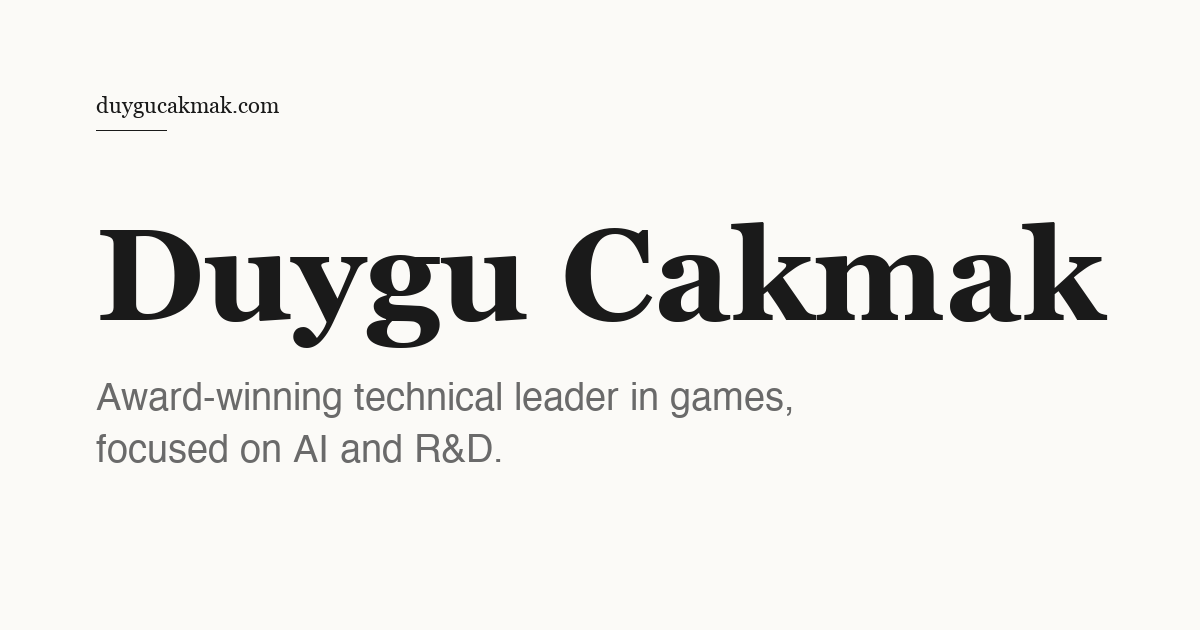
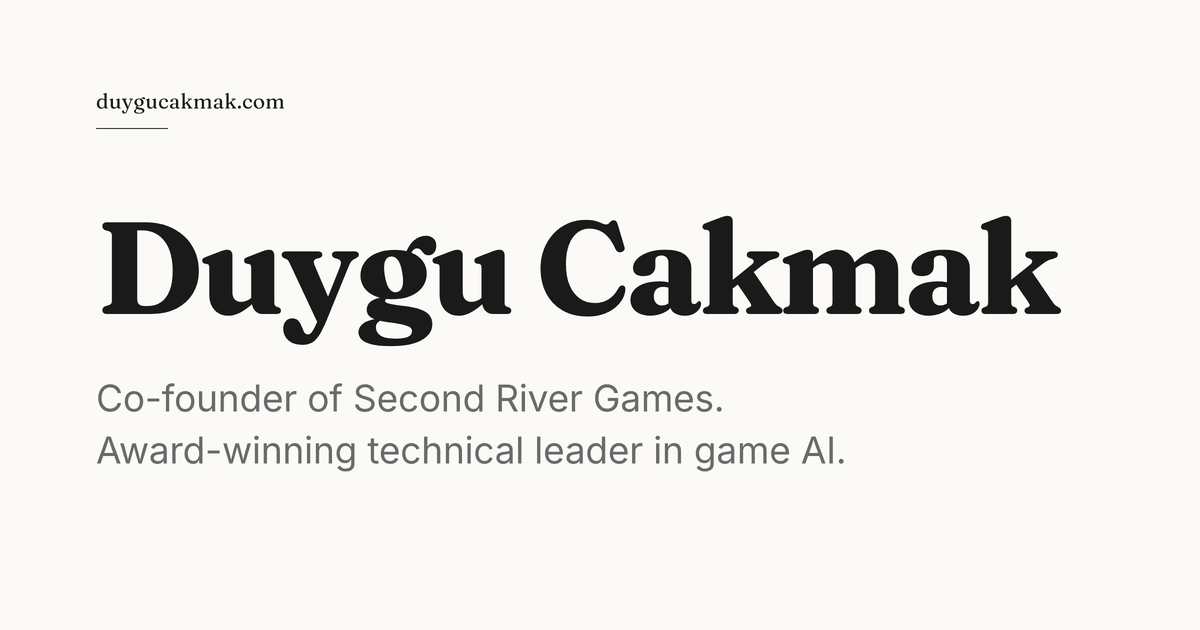
Lead with Second River Games in tagline and meta
Replace the tagline across the hero and the description, og and
twitter meta tags; "R&D" described the Creative Assembly role rather
than current work. Regenerate og-image.png, which had the old
tagline baked in and would otherwise have shown stale text in link
previews. Link Second River Games on its first mention and update
the LinkedIn URL to its new vanity slug.

diff --git a/index.html b/index.html
@@ -4,13 +4,13 @@
   <meta charset="utf-8">
   <meta name="viewport" content="width=device-width, initial-scale=1">
   <title>Duygu Cakmak</title>
-  <meta name="description" content="Duygu Cakmak — Award-winning technical leader in games, focused on AI and R&D.">
+  <meta name="description" content="Duygu Cakmak — Co-founder of Second River Games. Award-winning technical leader in game AI.">
 
   <link rel="icon" type="image/svg+xml" href="favicon.svg">
 
   <meta property="og:type" content="website">
   <meta property="og:title" content="Duygu Cakmak">
-  <meta property="og:description" content="Award-winning technical leader in games, focused on AI and R&D.">
+  <meta property="og:description" content="Co-founder of Second River Games. Award-winning technical leader in game AI.">
   <meta property="og:url" content="https://duygucakmak.com/">
   <meta property="og:image" content="https://duygucakmak.com/og-image.png">
   <meta property="og:image:width" content="1200">
@@ -18,7 +18,7 @@
 
   <meta name="twitter:card" content="summary_large_image">
   <meta name="twitter:title" content="Duygu Cakmak">
-  <meta name="twitter:description" content="Award-winning technical leader in games, focused on AI and R&D.">
+  <meta name="twitter:description" content="Co-founder of Second River Games. Award-winning technical leader in game AI.">
   <meta name="twitter:image" content="https://duygucakmak.com/og-image.png">
 
   <link rel="preconnect" href="https://fonts.googleapis.com">
@@ -42,7 +42,7 @@
   <main id="top">
     <section class="hero">
       <h1>Duygu Cakmak</h1>
-      <p class="tagline">Award-winning technical leader in games, focused on AI and R&amp;D.</p>
+      <p class="tagline">Co-founder of Second River Games. Award-winning technical leader in game AI.</p>
     </section>
 
     <section id="about" class="section">
@@ -50,7 +50,7 @@
       <div class="about-grid">
         <img class="headshot" src="Duygu-Cakmak-small-headshot.png" alt="Portrait of Duygu Cakmak" width="160" height="160">
         <div class="about-text">
-          <p>I'm the co-founder of Second River Games, where we work at the edges of simulation, narrative, play and AI. We're making worlds that feel alive and are driven by deep simulation. Alongside building games, I consult with studios and technology companies on AI strategy, game AI, and how to adopt emerging AI technology in practice.</p>
+          <p>I'm the co-founder of <a target="_blank" rel="noopener noreferrer" href="https://second-river-games.com/">Second River Games</a>, where we work at the edges of simulation, narrative, play and AI. We're making worlds that feel alive and are driven by deep simulation. Alongside building games, I consult with studios and technology companies on AI strategy, game AI, and how to adopt emerging AI technology in practice.</p>
           <p>Before that I spent a decade at Creative Assembly. I joined as an AI Programmer in 2015 and went on to build and lead teams across battle AI, campaign AI, and wider game technology. I was Project Technical Director on an unannounced historical Total War title, leading technical direction across multiple programming teams, before founding the studio's R&amp;D team.</p>
           <p>As R&amp;D Director I set research and AI strategy across the Total War series and beyond: game AI development on the titles themselves, machine learning and player-facing AI systems, and AI-assisted development tools built out of emerging research.</p>
           <p>Beyond the studio, I build the communities, events, and platforms where game AI developers across industry and academia meet, learn, and grow. I co-founded and continue to co-organise the world's largest independent <a target="_blank" rel="noopener noreferrer" href="https://www.aiandgamesconference.com/">AI and Games developer conference</a>, chair the IGGI industry board, advise the GDC AI Summit, and serve as Associate Editor for IEEE Transactions on Games.</p>
@@ -229,7 +229,7 @@
     <section id="contact" class="section">
       <h2>Contact</h2>
       <p>
-        <a target="_blank" rel="noopener noreferrer" href="https://www.linkedin.com/in/duygu-cakmak-b775b122/">LinkedIn</a>
+        <a target="_blank" rel="noopener noreferrer" href="https://www.linkedin.com/in/duygu-cakmak/">LinkedIn</a>
         &nbsp;·&nbsp;
         <a target="_blank" rel="noopener noreferrer" href="https://bsky.app/profile/aphraella.bsky.social">Bluesky</a>
       </p>
